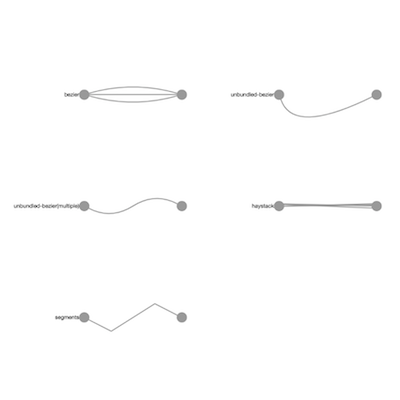
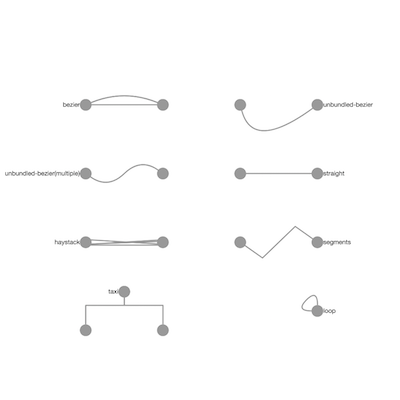
Taxi edges
- Add taxi edge implementation.
- Add docs.
- Add example of taxi edges to the edge types demo in the docs.

Ref #2306

diff --git a/src/extensions/renderer/base/coord-ele-math/edge-control-points.js b/src/extensions/renderer/base/coord-ele-math/edge-control-points.js
@@ -243,6 +243,157 @@ BRp.findBezierPoints = function( edge, pairInfo, i, edgeIsUnbundled, edgeIsSwapp
   }
 };
 
+BRp.findTaxiPoints = function( edge, pairInfo ){
+  // Taxicab geometry with two turns maximum
+
+  const rs = edge._private.rscratch;
+
+  rs.edgeType = 'segments';
+
+  const VERTICAL = 'vertical';
+  const HORIZONTAL = 'horizontal';
+  const LEFTWARD = 'leftward';
+  const RIGHTWARD = 'rightward';
+  const DOWNWARD = 'downward';
+  const UPWARD = 'upward';
+  const AUTO = 'auto';
+
+  const { posPts, srcW, srcH, tgtW, tgtH } = pairInfo;
+  const edgeDistances = edge.pstyle('edge-distances').value;
+  const dIncludesNodeBody = edgeDistances !== 'node-position';
+  let taxiDir = edge.pstyle('taxi-direction').value;
+  let rawTaxiDir = taxiDir; // unprocessed value
+  const taxiTurn = edge.pstyle('taxi-turn');
+  const taxiTurnPfVal = taxiTurn.pfValue;
+  let minD = edge.pstyle('taxi-turn-min-distance').pfValue;
+  const turnIsPercent = taxiTurn.units === '%';
+  const dw = (dIncludesNodeBody ? (srcW + tgtW)/2 : 0);
+  const dh = (dIncludesNodeBody ? (srcH + tgtH)/2 : 0);
+  const pdx = posPts.x2 - posPts.x1;
+  const pdy = posPts.y2 - posPts.y1;
+
+  // take away the effective w/h from the magnitude of the delta value
+  const subDWH = (dxy, dwh) => {
+    if( dxy > 0 ){
+      return Math.max(dxy - dwh, 0);
+    } else {
+      return Math.min(dxy + dwh, 0);
+    }
+  };
+
+  const dx = subDWH(pdx, dw);
+  const dy = subDWH(pdy, dh);
+
+  if( taxiDir === AUTO ){
+    taxiDir = Math.abs(dx) > Math.abs(dy) ? HORIZONTAL : VERTICAL;
+  }
+
+  if( taxiDir === UPWARD || taxiDir === DOWNWARD ){
+    taxiDir = VERTICAL;
+  } else if( taxiDir === LEFTWARD || taxiDir === RIGHTWARD ){
+    taxiDir = HORIZONTAL;
+  }
+
+  const isVert = taxiDir === VERTICAL;
+  let l = isVert ? dy : dx;
+  let pl = isVert ? pdy : pdx;
+  let sgnL = math.signum(pl);
+
+  let forcedDir = false;
+  if(
+    (rawTaxiDir === DOWNWARD && pl < 0)
+    || (rawTaxiDir === UPWARD && pl > 0)
+    || (rawTaxiDir === LEFTWARD && pl > 0)
+    || (rawTaxiDir === RIGHTWARD && pl < 0)
+  ){
+    sgnL *= -1;
+    l = sgnL * Math.abs(l);
+
+    forcedDir = true;
+  }
+
+  let d = turnIsPercent ? taxiTurnPfVal * l : taxiTurnPfVal * sgnL;
+
+  const getIsTooClose = d => Math.abs(d) < minD || Math.abs(d) >= Math.abs(l);
+  const isTooCloseSrc = getIsTooClose(d);
+  const isTooCloseTgt =  getIsTooClose(l - d);
+  const isTooClose = isTooCloseSrc || isTooCloseTgt;
+
+  if( isTooClose && !forcedDir ){ // non-ideal routing
+    if( isVert ){ // vertical fallbacks
+      const lShapeInsideSrc = Math.abs(pl) <= srcH/2;
+      const lShapeInsideTgt = Math.abs(pdx) <= tgtW/2;
+
+      if( lShapeInsideSrc ){ // horizontal Z-shape (direction not respected)
+        let x = (posPts.x1 + posPts.x2)/2;
+        let { y1, y2 } = posPts;
+
+        rs.segpts = [
+          x, y1,
+          x, y2
+        ];
+      } else if( lShapeInsideTgt ){ // vertical Z-shape (distance not respected)
+        let y = (posPts.y1 + posPts.y2)/2;
+        let { x1, x2 } = posPts;
+
+        rs.segpts = [
+          x1, y,
+          x2, y
+        ];
+      } else { // L-shape fallback (turn distance not respected, but works well with tree siblings)
+        rs.segpts = [
+          posPts.x1, posPts.y2
+        ];
+      }
+
+    } else { // horizontal fallbacks
+      const lShapeInsideSrc = Math.abs(pl) <= srcW/2;
+      const lShapeInsideTgt = Math.abs(pdy) <= tgtH/2;
+
+      if( lShapeInsideSrc ){ // vertical Z-shape (direction not respected)
+        let y = (posPts.y1 + posPts.y2)/2;
+        let { x1, x2 } = posPts;
+
+        rs.segpts = [
+          x1, y,
+          x2, y
+        ];
+      } else if( lShapeInsideTgt ){ // horizontal Z-shape (turn distance not respected)
+        let x = (posPts.x1 + posPts.x2)/2;
+        let { y1, y2 } = posPts;
+
+        rs.segpts = [
+          x, y1,
+          x, y2
+        ];
+      } else { // L-shape (turn distance not respected, but works well for tree siblings)
+        rs.segpts = [
+          posPts.x2,
+          posPts.y1
+        ];
+      }
+    }
+  } else { // ideal routing
+    if( isVert ){
+      let y = posPts.y1 + d + (dIncludesNodeBody ? srcH/2 * sgnL : 0);
+      let { x1, x2 } = posPts;
+
+      rs.segpts = [
+        x1, y,
+        x2, y
+      ];
+    } else { // horizontal
+      let x = posPts.x1 + d + (dIncludesNodeBody ? srcW/2 * sgnL : 0);
+      let { y1, y2 } = posPts;
+
+      rs.segpts = [
+        x, y1,
+        x, y2
+      ];
+    }
+  }
+};
+
 BRp.tryToCorrectInvalidPoints = function( edge, pairInfo ){
   const rs = edge._private.rscratch;
 
@@ -459,7 +610,7 @@ BRp.findEdgeControlPoints = function( edges ){
       continue;
     }
 
-    let edgeIsUnbundled = curveStyle === 'unbundled-bezier' || curveStyle === 'segments' || curveStyle === 'straight';
+    let edgeIsUnbundled = curveStyle === 'unbundled-bezier' || curveStyle === 'segments' || curveStyle === 'straight' || curveStyle === 'taxi';
     let edgeIsBezier = curveStyle === 'unbundled-bezier' || curveStyle === 'bezier';
     let srcIndex = _p.source.poolIndex();
     let tgtIndex = _p.target.poolIndex();
@@ -544,7 +695,7 @@ BRp.findEdgeControlPoints = function( edges ){
       const edge = pairInfo.eles[i];
       const rs = edge[0]._private.rscratch;
       const curveStyle = edge.pstyle( 'curve-style' ).value;
-      const edgeIsUnbundled = curveStyle === 'unbundled-bezier' || curveStyle === 'segments';
+      const edgeIsUnbundled = curveStyle === 'unbundled-bezier' || curveStyle === 'segments' || curveStyle === 'taxi';
 
       // whether the normalised pair order is the reverse of the edge's src-tgt order
       const edgeIsSwapped = !src.same(edge.source());
@@ -661,6 +812,9 @@ BRp.findEdgeControlPoints = function( edges ){
 
       } else if( curveStyle === 'segments' ){
         this.findSegmentsPoints(edge, passedPairInfo);
+
+      } else if( curveStyle === 'taxi' ){
+        this.findTaxiPoints(edge, passedPairInfo);
 
       } else if(
         curveStyle === 'straight'

diff --git a/src/style/properties.js b/src/style/properties.js
@@ -38,6 +38,7 @@ const styfn = {};
     bidirectionalSize: { number: true }, // allows negative
     bidirectionalSizes: { number: true, multiple: true }, // allows negative
     sizeMaybePercent: { number: true, min: 0, allowPercent: true },
+    axisDirection: { enums: ['horizontal', 'leftward', 'rightward', 'vertical', 'upward', 'downward', 'auto'] },
     paddingRelativeTo: { enums: [ 'width', 'height', 'average', 'min', 'max' ] },
     bgWH: { number: true, min: 0, allowPercent: true, enums: [ 'auto' ], multiple: true },
     bgPos: { number: true, allowPercent: true, multiple: true },
@@ -53,7 +54,7 @@ const styfn = {};
     lineStyle: { enums: [ 'solid', 'dotted', 'dashed' ] },
     lineCap: { enums: [ 'butt', 'round', 'square' ] },
     borderStyle: { enums: [ 'solid', 'dotted', 'dashed', 'double' ] },
-    curveStyle: { enums: [ 'bezier', 'unbundled-bezier', 'haystack', 'segments', 'straight' ] },
+    curveStyle: { enums: [ 'bezier', 'unbundled-bezier', 'haystack', 'segments', 'straight', 'taxi' ] },
     fontFamily: { regex: '^([\\w- \\"]+(?:\\s*,\\s*[\\w- \\"]+)*)$' },
     fontStyle: { enums: [ 'italic', 'normal', 'oblique' ] },
     fontWeight: { enums: [ 'normal', 'bold', 'bolder', 'lighter', '100', '200', '300', '400', '500', '600', '800', '900', 100, 200, 300, 400, 500, 600, 700, 800, 900 ] },
@@ -301,6 +302,9 @@ const styfn = {};
     { name: 'control-point-weights', type: t.numbers, triggersBounds: diff.any },
     { name: 'segment-distances', type: t.bidirectionalSizes, triggersBounds: diff.any },
     { name: 'segment-weights', type: t.numbers, triggersBounds: diff.any },
+    { name: 'taxi-turn', type: t.sizeMaybePercent, triggersBounds: diff.any },
+    { name: 'taxi-turn-min-distance', type: t.size, triggersBounds: diff.any },
+    { name: 'taxi-direction', type: t.axisDirection, triggersBounds: diff.any },
     { name: 'edge-distances', type: t.edgeDistances, triggersBounds: diff.any },
     { name: 'arrow-scale', type: t.positiveNumber, triggersBounds: diff.any },
     { name: 'loop-direction', type: t.angle, triggersBounds: diff.any },
@@ -618,6 +622,9 @@ styfn.getDefaultProperties = function(){
     'control-point-weights': 0.5,
     'segment-weights': 0.5,
     'segment-distances': 20,
+    'taxi-turn': '50%',
+    'taxi-turn-min-distance': 10,
+    'taxi-direction': 'auto',
     'edge-distances': 'intersection',
     'curve-style': 'haystack',
     'haystack-radius': 0,

diff --git a/documentation/demos/edge-types/code.js b/documentation/demos/edge-types/code.js
@@ -3,7 +3,7 @@
 (function(){
   var toJson = function(res){ return res.json(); };
 
-  window.cy = cytoscape({
+  var cy = window.cy = cytoscape({
     container: document.getElementById('cy'),
 
     layout: {
@@ -14,5 +14,21 @@
     style: fetch('cy-style.json').then(toJson),
 
     elements: fetch('data.json').then(toJson)
+  });
+
+  cy.ready(function(){ // make taxi nodes better organised
+    var n13 = cy.$('#n13');
+    var n11 = cy.$('#n11');
+    var n12 = cy.$('#n12');
+    var p11 = n11.position();
+    var p12 = n12.position();
+    var d = (p12.x - p11.x)/4;
+
+    n13.position({
+      x: (p11.x + p12.x)/2,
+      y: p11.y - d
+    });
+
+    n11.add(n12).position({ y: p11.y + d });
   });
 })();

diff --git a/documentation/demos/edge-types/index.html b/documentation/demos/edge-types/index.html
@@ -12,7 +12,7 @@
     <script src="../../js/cytoscape.min.js"></script>
 
     <!-- for testing with local version of cytoscape.js -->
-    <!--<script src="../cytoscape.js/build/cytoscape.js"></script>-->
+    <!-- <script src="../../../build/cytoscape.umd.js"></script> -->
   </head>
   <body>
     <h1>Edge types demo</h1>

diff --git a/documentation/md/style.md b/documentation/md/style.md
@@ -319,7 +319,7 @@ The following is an example of valid background image styling using JSON. The ex
 
 ## Pie chart background
 
-These properties allow you to create pie chart backgrounds on nodes.  Note that 16 slices maximum are supported per node, so in the properties `1 <= i <= 16`.  Of course, you must specify a numerical value for each property in place of `i`.  Each nonzero sized slice is placed in order of `i`, starting from the 12 o'clock position and working clockwise.
+These properties allow you to create pie chart backgrounds on nodes ([demo](demos/pie-style)).  Note that 16 slices maximum are supported per node, so in the properties `1 <= i <= 16`.  Of course, you must specify a numerical value for each property in place of `i`.  Each nonzero sized slice is placed in order of `i`, starting from the 12 o'clock position and working clockwise.
 
 You may find it useful to reserve a number to a particular colour for all nodes in your stylesheet.  Then you can specify values for `pie-i-background-size` accordingly for each node via a [mapper](#style/mappers).  This would allow you to create consistently coloured pie charts in each node of the graph based on element data.
 
@@ -335,7 +335,7 @@ You may find it useful to reserve a number to a particular colour for all nodes 
 These properties affect the styling of an edge's line:
 
  * **`width`** : The width of an edge's line.
- * **`curve-style`** : The curving method used to separate two or more edges between two nodes; may be [`haystack`](#style/haystack-edges) (default, very fast, bundled straight edges for which loops and compounds are unsupported), [`straight`](#style/straight-edges) (straight edges with all arrows supported), [`bezier`](#style/bezier-edges) (bundled curved edges), [`unbundled-bezier`](#style/unbundled-bezier-edges) (curved edges for use with manual control points), or [`segments`](#style/segments-edges) (a series of straight lines).  Note that `haystack` edges work best with `ellipse`, `rectangle`, or similar nodes.  Smaller node shapes, like `triangle`, will not be as aesthetically pleasing.  Also note that edge arrows are unsupported for `haystack` edges.
+ * **`curve-style`** : The curving method used to separate two or more edges between two nodes ([demo](demos/edge-types)); may be [`haystack`](#style/haystack-edges) (default, very fast, bundled straight edges for which loops and compounds are unsupported), [`straight`](#style/straight-edges) (straight edges with all arrows supported), [`bezier`](#style/bezier-edges) (bundled curved edges), [`unbundled-bezier`](#style/unbundled-bezier-edges) (curved edges for use with manual control points),  [`segments`](#style/segments-edges) (a series of straight lines), [`taxi`](#style/taxi-edges) (right-angled lines, hierarchically bundled).  Note that `haystack` edges work best with `ellipse`, `rectangle`, or similar nodes.  Smaller node shapes, like `triangle`, will not be as aesthetically pleasing.  Also note that edge endpoint arrows are unsupported for `haystack` edges.
  * **`line-color`** : The colour of the edge's line.
  * **`line-style`** : The style of the edge's line; may be `solid`, `dotted`, or `dashed`.
  * **`line-cap`** : The cap style of the edge's line; may be `butt` (default), `round`, or `square`.  The cap may or may not be visible, depending on the shape of the node and the relative size of the node and edge.  Caps other than `butt` extend beyond the specified endpoint of the edge.
@@ -350,7 +350,7 @@ These properties affect the styling of an edge's line:
 
 ## Bezier edges
 
-For automatic, bundled bezier edges (`curve-style: bezier`):
+For automatic, bundled bezier edges (`curve-style: bezier`, [demo](demos/edge-types)):
 
 A bezier edge is bundled with all other parallel bezier edges.  Each bezier edge is a [quadratic bezier curve](https://en.wikipedia.org/wiki/Bézier_curve#Quadratic_Bézier_curves), separated from the others by varying the control point.  If there is an odd number of parallel edges in a bundle, then the centre edge is drawn as a straight line.
 
@@ -362,7 +362,7 @@ A bezier edge is bundled with all other parallel bezier edges.  Each bezier edge
 
 ## Loop edges
 
-For loops (i.e. same source and target):
+For loops (i.e. same source and target, [demo](demos/edge-types)):
 
 A loop is normally drawn as a pair of [quadratic bezier curves](https://en.wikipedia.org/wiki/Bézier_curve#Quadratic_Bézier_curves), one bezier going away from the node and the second bezier going back towards the node.
 
@@ -374,7 +374,7 @@ Note that loops may only be `bezier` or `unbundled-bezier` for their `curve-styl
 
 ## Unbundled bezier edges
 
-For bezier edges with manual control points (`curve-style: unbundled-bezier`):
+For bezier edges with manual control points (`curve-style: unbundled-bezier`, [demo](demos/edge-types)):
 
 An unbundled bezier edge is made of a series of one or more [quadratic bezier curves](https://en.wikipedia.org/wiki/Bézier_curve#Quadratic_Bézier_curves) --- one control point per curve.  The control points of the bezier curves are specified manually, using a co-ordinate system relative to the source and target node.  This maintains the overall curve shape regardless of the positions of the connected nodes.
 
@@ -387,7 +387,7 @@ When two or more control points are specified for an unbundled bezier edge, each
 
 ## Haystack edges
 
-For fast, straight line edges (`curve-style: haystack`):
+For fast, straight line edges (`curve-style: haystack`, [demo](demos/edge-types)):
 
 Haystack edges are a more performant replacement for plain, straight line edges.  A haystack edge is drawn as a straight line from the source node to the target node, randomly placed along some angle from each node's centre.  In this manner, many parallel haystack edges make a tight bundle, especially when semitransparent.  This makes haystack edges an effective way to visualise graphs with a high number of parallel edges.
 
@@ -398,7 +398,7 @@ Haystack edges are a more performant replacement for plain, straight line edges.
 
 ## Segments edges
 
-For edges made of several straight lines (`curve-style: segments`):
+For edges made of several straight lines (`curve-style: segments`, [demo](demos/edge-types)):
 
 A segment edge is made of a series of one or more straight lines, using a co-ordinate system relative to the source and target nodes.  This maintains the overall line pattern regardless of the orientation of the positions of the source and target nodes.
 
@@ -409,13 +409,38 @@ A segment edge is made of a series of one or more straight lines, using a co-ord
 
 ## Straight edges
 
+For straight line edges (`curve-style: straight`, [demo](demos/edge-types)):
+
 A straight edge (`curve-style: straight`) is drawn as a single straight line from the outside of the source node shape to the outside of the target node shape.  Endpoint and midpoint arrows are supported on straight edges.  Straight edges are not generally suitable for multigraphs.
+
+
+## Taxi edges
+
+For hierarchical, bundled edges (`curve-style: taxi`, [demo](demos/edge-types)):
+
+A taxi edge (`curve-style: taxi`) is drawn as a series of right-angled lines (i.e. in [taxicab geometry](https://en.wikipedia.org/wiki/Taxicab_geometry)).  The edge has a primary direction along either the x-axis or y-axis, which can be used to bundle edges in a hierarchy.  That is, taxi edges are appropriate for trees and DAGs that are laid out in a hierarchical manner.
+
+A taxi edge has at most two visible turns:  Starting from the source node, the edge goes in the primary direction for the specified distance.  The edge then turns, going towards the target along the secondary axis.  The first turn can be specified in order to bundle the edges of successor nodes.  The second turn is implicit, based on the first turn, going the remaining distance along the main axis.
+
+When a taxi edge would be impossible to draw along the regular turning plan --- i.e. one or more turns is too close the source or target --- it is re-routed.  The re-routing is carried out on a best-effort basis:  Re-routing prioritises the specified direction for bundling over the specified turn distance.  A `downward` edge, for example, will avoid going in the upward direction where possible.  In practice, re-routing should not take place for well laid out graphs.  It is only when the source and target are very close together that re-routing is applied.
+
+* **`taxi-direction`** : The main direction of the edge, the direction starting out from the source node; may be one of:
+  * `auto` : Automatically use `vertical` or `horizontal`, based on whether the vertical or horizontal distance is largest.
+  * `vertical` : Automatically use `downward` or `upward`, based on the vertical direction from source to target.
+  * `downward` : Bundle successors downwards.
+  * `upward` : Bundle successors upwards.
+  * `horizontal` : Automatically use `righward` or `leftward`, based on the horizontal direction from source to target.
+  * `rightward` : Bundle successors righwards.
+  * `leftward` : Bundle successors leftwards.
+* **`taxi-turn`** : The distance along the primary axis where the first turn is applied.  This value may be an absolute distance (e.g. `20px`) or it may be a relative distance between the source and target (e.g. `50%`).
+* **`taxi-turn-min-distance`** : The minimum distance along the primary axis that is maintained between the nodes and the turns.  This value only takes on absolute values (e.g. `5px`).  This property makes the taxi edge be re-routed when the turns would be otherwise too close to the source or target.  As such, it also helps to avoid turns overlapping edge endpoint arrows.
+* **`edge-distances`** : With value `intersection` (default), the distances (`taxi-turn` and `taxi-turn-min-distance`) are considered from the outside of the source's bounds to the outside of the target's bounds.  With value `node-position`, the distances are considered from the source position to the target position.  The `node-position` option makes calculating edge points easier --- but it should be used carefully because you can create invalid points that `intersection` would have automatically corrected.
 
 
 ## Edge arrow
 
 * **`<pos>-arrow-color`** : The colour of the edge's source arrow.
-* **`<pos>-arrow-shape`** : The shape of the edge's source arrow; may be one of:
+* **`<pos>-arrow-shape`** : The shape of the edge's source arrow ([demo](demos/edge-arrows)); may be one of:
   * `triangle`
   * `triangle-tee`
   * `triangle-cross`
@@ -491,7 +516,7 @@ Elements are drawn in a specific order based on compound depth (low to high), th
 
 Label text:
 
- * **`label`** : The text to display for an element's label.
+ * **`label`** : The text to display for an element's label ([demo](demos/labels)).
  * **`source-label`** : The text to display for an edge's source label.
  * **`target-label`** : The text to display for an edge's target label.
 
